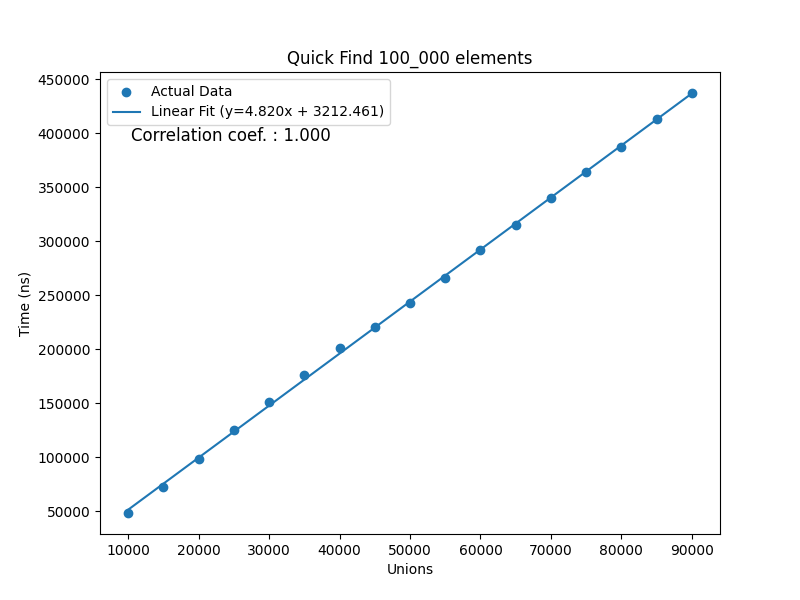
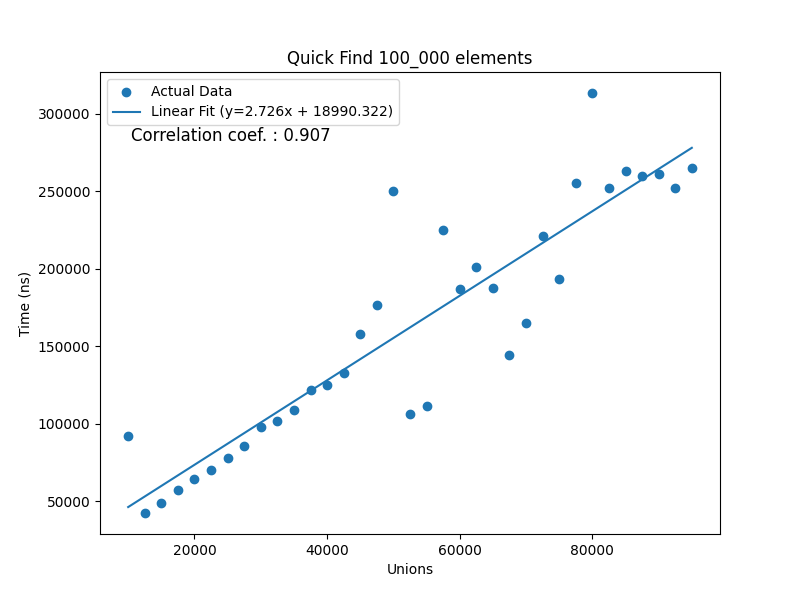
i dont even know what's happening

diff --git a/A01/src/App.java b/A01/src/App.java
@@ -7,7 +7,7 @@ import src.ksum.ThreeSum;
 import src.ksum.ThreeSumCached;
 
 public class App {
-    final int SAMPLES = 30;
+    final int SAMPLES = 100;
     int UF_SIZE = 2;
 
     /**
@@ -22,10 +22,10 @@ public class App {
          * Get graphs for unions on 100_000 items.
          */
         this.UF_SIZE = 100_000;
-        Integer[] unions = { 10000, 15000, 20000, 25000, 30000,
-                             35000, 40000, 45000, 50000, 55000,
-                             60000, 65000, 70000, 75000, 80000,
-                             85000, 90000};
+        Integer[] unions = { 10000, 12500, 15000, 17500, 20000, 22500, 25000, 27500, 30000, 32500,
+                             35000, 37500, 40000, 42500, 45000, 47500, 50000, 52500, 55000, 57500,
+                             60000, 62500, 65000, 67500, 70000, 72500, 75000, 77500, 80000, 82500,
+                             85000, 87500, 90000, 92500, 95000 };
         
         WeightedUnionFind wuf = new WeightedUnionFind(UF_SIZE);
         Double[] times = getQfTimesFixedSize(unions, wuf);
@@ -47,11 +47,10 @@ public class App {
          * Get graphs for unions on 1_000_000 items.
          */
         this.UF_SIZE = 1_000_000;
-        unions = new Integer[] { 100000, 125000, 150000, 175000, 200000, 225000, 250000, 275000, 
-                                 300000, 325000, 350000, 375000, 400000, 425000, 450000, 475000,
-                                 500000, 525000, 550000, 575000, 600000, 625000, 650000, 675000,
-                                 700000, 725000, 750000, 775000, 800000, 825000, 850000, 875000,
-                                 900000, 925000, 950000};
+        unions = new Integer[] { 100000, 125000, 150000, 175000, 200000, 225000, 250000, 275000, 300000, 325000,
+                                 350000, 375000, 400000, 425000, 450000, 475000, 500000, 525000, 550000, 575000,
+                                 600000, 625000, 650000, 675000, 700000, 725000, 750000, 775000, 800000, 825000,
+                                 850000, 875000, 900000, 925000, 950000};
 
         wuf = new WeightedUnionFind(UF_SIZE);
         times = getQfTimesFixedSize(unions, wuf);
@@ -166,6 +165,6 @@ public class App {
     public static void main(String[] args) {
         App app = new App();
         app.qfRace();
-        app.kSumRace();
+        //app.kSumRace();
     }
 }

diff --git a/A01/src/Plotter.java b/A01/src/Plotter.java
@@ -33,7 +33,7 @@ public class Plotter {
     private String title = "_";
     private Type type = Type.NONE;
 
-    private final String KEYWORD = "python";
+    private final String KEYWORD = "python3";
     private final String SCRIPT_PATH = "src/scripts/plotter.py";
 
     /**
@@ -145,7 +145,7 @@ public class Plotter {
         /**
          * Assemble command to be run.
          */
-        command = new String[]{KEYWORD, SCRIPT_PATH, graphPath, Arrays.toString(x), Arrays.toString(y), x_label, y_label, title, this.type.toString()};
+        command = new String[]{KEYWORD, SCRIPT_PATH, graphPath, Arrays.toString(x).replaceAll("\\s+",""), Arrays.toString(y).replaceAll("\\s+",""), x_label, y_label, title, this.type.toString()};
         // System.out.println(Arrays.toString(command));
         try {
             Process p = new ProcessBuilder(command).start();

diff --git a/A02/src/RandQueue/RandQueue.java b/A02/src/RandQueue/RandQueue.java
@@ -1,0 +1,34 @@
+package src.RandQueue;
+
+import java.util.Random;
+
+public class RandQueue<T> implements Iterable<T> {
+    private T[] array;
+    private int size;
+    private Random random;
+
+    /**
+     * Constructor to create empty queue.
+     */
+    public RandQueue() {
+        this(1);
+    }
+
+    /**
+     * Constructor to populate queue with array of items.
+     * @param items
+     */
+    public RandQueue(T[] items) {
+        array = (T[]) new Object[initialSize];
+        System.arraycopy(items,0, array,0, items.length);
+        size = items.length;
+        random = new Random();
+    }
+
+    
+    public RandQueue(int initialSize) {
+        array = (T[]) new Object[initialSize];
+        size = 0;
+        random = new Random();
+    }
+}

diff --git a/A01/src/scripts/plotter.py b/A01/src/scripts/plotter.py
@@ -6,7 +6,6 @@ from scipy.stats import linregress
 
 
 
-
 def plot(graph_path:str, x:list[float], y:list[float], x_label:str, y_label:str, title:str, plot_type: str) -> None:
     """
     Simple plot for list of x and y values.
@@ -69,10 +68,14 @@ def linear_regression(x: list[float], y: list[float]) -> tuple[float, float, flo
     """
     Calculate and return the slope, intercept and linear regression coefficient
     from the x and y values passed in.
+    
+    
     """
+    
+    
     slope, intercept, r_value, _, _ = linregress(x, y)
+    
     return slope, intercept, r_value
-
 
 def power_law(x: list[float], y: list[float]) -> tuple[float, float, float]:
     """

diff --git a/A01/src/Util.java b/A01/src/Util.java
@@ -1,4 +1,6 @@
 package src;
+import java.math.BigDecimal;
+import java.math.MathContext;
 import java.util.Arrays;
 import java.util.Random;
 
@@ -54,6 +56,16 @@ public class Util {
                 count++;
             }
         }
+
+        /**
+         * Round the answer to 4 decimal places arbitrarily.
+         
+        double avg = sum / count;
+        BigDecimal bd = new BigDecimal(avg);
+        bd = bd.round(new MathContext(10));
+        double rounded_avg = bd.doubleValue();
+        */
+
         return count > 0 ? sum / count : 0;
     }
 

diff --git a/A01/README.md b/A01/README.md
@@ -162,3 +162,16 @@ Brute force 3-Sum 1500 Max | Cached 3-Sum 1500 Max
 ![Graph](graphs/ksum/brute_force_1500.png)| ![Graph](graphs/ksum/cached_1500.png).
 
 A few things are immediately clear. The cached 3-sum variant takes much less time. Looking at the power law equations, we can see the slope of the brute-force variant is practically 3, and the cached variant has a slope of practically 2, meaning they are cubic and quadratic respectively.
+
+
+
+# Test statment
+
+python3 src/scripts/plotter.py graphs/uf/FS1_000_000_QuickFind.png [100000,125000,150000,175000] [578595.1,523364.3929,455945.3793,565627.0] 'Unions' 'Time(ns)' 'Quick Find_1_000_000 elements' Linear
+
+
+python3 /src/scripts/plotter.py, graphs/uf/FS100_000_WeightedUnionFind.png, [10000,12500,15000,17500,20000,22500,25000,27500,30000,32500,35000,37500,40000,42500,45000,47500,50000,52500,55000,57500,60000,62500,65000,67500,70000,72500,75000,77500,80000,82500,85000,87500,90000,92500,95000] [143624.3478,174342.0,182967.087,57200.58333,71538.46154,70770.21429,79270.41667,87055.88462,97626.57143,105820.5714,110116.1304,120068.12,128116.08,148786.2692,274629.5333,154488.7407,343263.0,173517.76,177791.5,193440.4074,206483.0769,218260.9259,224430.6667,313657.931,241384.0417,256746.3077,255862.8462,283402.8621,299108.0,324205.25,343993.6786,340167.069,394024.4643,392675.6923,402881.28], Unions, Time (ns), Weighted Union Find 100_000 elements, Linear
+
+
+
+python3 src/scripts/plotter.py graphs/uf/test.png [1,2,3,4,5] [2,4,6,8,10] TEST 'TEST Y' 'TEST SPACE' Linear
